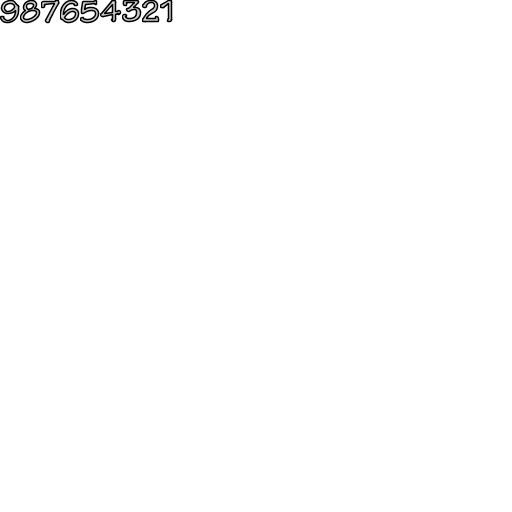
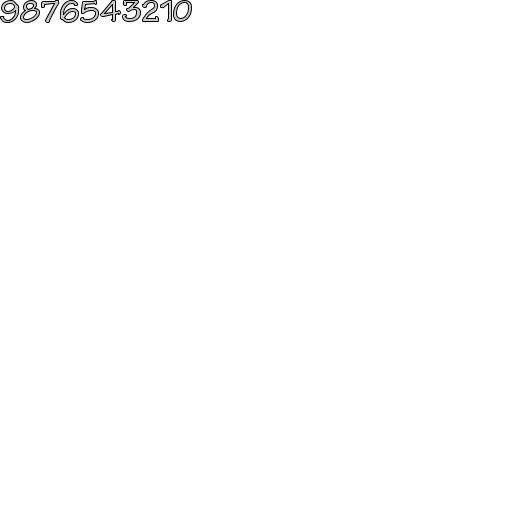
#20 show numbers 0 - 9.  Fix android build.

Changed region(s): [[0.0, 0.0, 0.375, 0.0625]]

diff --git a/GalCon-Client/GalCon-Client-android/src/com/xxx/galcon/AndroidGameAction.java b/GalCon-Client/GalCon-Client-android/src/com/xxx/galcon/AndroidGameAction.java
@@ -1,5 +1,6 @@
 package com.xxx.galcon;
 
+import static com.xxx.galcon.http.UrlConstants.FIND_ACTIVE_GAMES_FOR_A_USER;
 import static com.xxx.galcon.http.UrlConstants.FIND_AVAILABLE_GAMES;
 import static com.xxx.galcon.http.UrlConstants.FIND_GAME_BY_ID;
 import static com.xxx.galcon.http.UrlConstants.GENERATE_GAME;
@@ -86,14 +87,14 @@ public class AndroidGameAction implements GameAction {
 
 		new GetJsonRequestTask<GameBoard>(args, callback, FIND_GAME_BY_ID, new GameBoard()).execute("");
 	}
-	
-	public void findActiveGamesForAUser(
-			ConnectionResultCallback<AvailableGames> callback, String player)
+
+	public void findActiveGamesForAUser(ConnectionResultCallback<AvailableGames> callback, String player)
 			throws ConnectionException {
 		Map<String, String> args = new HashMap<String, String>();
 		args.put("userName", player);
 
-		new GetJsonRequestTask<GameBoard>(args, callback, FIND_ACTIVE_GAMES_FOR_A_USER, new GameBoard()).execute("");
+		new GetJsonRequestTask<AvailableGames>(args, callback, FIND_ACTIVE_GAMES_FOR_A_USER, new AvailableGames())
+				.execute("");
 	}
 
 	private class PostJsonRequestTask<T extends JsonConvertible> extends JsonRequestTask<T> {
